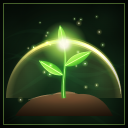
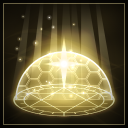
[Claude] feat(ui): 泥沼術與大地守護圖示重畫
- 泥沼術：改為雜訊擾動的不規則毒泥潭，散落大小不一的毒液窪、氣泡、毒氣與濺出的泥點，不再用同心圓漩渦
- 大地守護：改為黃白聖光風格——天降光束、六角光盾罩、地面符文陣與中央聖光十字星

diff --git a/tools/skill-icons/skill-icon-painter.js b/tools/skill-icons/skill-icon-painter.js
@@ -418,6 +418,7 @@
     earth: { base: '#090604', tint: '#3a220e', cloud: '#55331a', key: '#e3a457' },
     swamp: { base: '#050604', tint: '#26250c', cloud: '#2f3a10', key: '#9be04a' },
     life: { base: '#040805', tint: '#16331a', cloud: '#21502a', key: '#b8f26a' },
+    holy: { base: '#0b0906', tint: '#3a3016', cloud: '#5a4a20', key: '#fff2b0' },
     bolt: { base: '#07050f', tint: '#241848', cloud: '#352266', key: '#ffd84a' },
     orb: { base: '#05040f', tint: '#1a1a4e', cloud: '#2a2672', key: '#b4b8ff' },
     boltBlue: { base: '#02050e', tint: '#0b1e4c', cloud: '#132c6e', key: '#6ab8ff' },
@@ -966,98 +967,164 @@
     motes(c, R, 12, [20, 20, 236, 236], ['#ffcf6a'], 1, 2);
   };
 
-  /* 泥沼術：俯視的泥漿漩渦，毒光與氣泡 */
+  /* 泥沼術：不規則的毒泥潭（雜訊擾動的輪廓、散落的毒液窪、氣泡與毒氣），刻意不用同心圓 */
   PAINTERS.mire = function (c, R) {
-    background(c, R, Object.assign({ cy: 140 }, PAL.swamp));
-    c.save(); c.translate(128, 140); c.scale(1, 0.62); c.translate(-128, -140);
-    /* 泥沼盆 */
-    var pg = c.createRadialGradient(128, 140, 4, 128, 140, 118);
-    pg.addColorStop(0, '#0a0803'); pg.addColorStop(0.55, '#3a2a12'); pg.addColorStop(0.85, '#5a4418'); pg.addColorStop(1, 'rgba(60,40,10,0)');
-    c.fillStyle = pg; c.beginPath(); c.arc(128, 140, 118, 0, TAU); c.fill();
-    /* 漩渦臂 */
-    for (var k = 0; k < 5; k++) {
-      var sp = spiralPts(128, 140, 108, 8, k * TAU / 5, 1.1, 50);
-      ribbon(c, sp, function (t) { return 16 * Math.sin(Math.PI * t) * (1 - t * 0.5); }, rgba('#7a5a26', 0.6));
-      add(c);
-      ribbon(c, sp, function (t) { return 4 * Math.sin(Math.PI * t); }, rgba('#9be04a', 0.45));
-      normal(c);
-    }
-    /* 毒光環 */
+    background(c, R, Object.assign({ cy: 150 }, PAL.swamp));
+    /* 不規則輪廓：半徑疊幾個不同頻率的正弦，再壓成斜視 */
+    var blob = function (cx, cy, r, sq, seedPh, amp) {
+      var pts = [], ph = [seedPh, seedPh * 1.7 + 1, seedPh * 2.3 + 2];
+      for (var i = 0; i < 72; i++) {
+        var a = i / 72 * TAU;
+        var k = 1 + amp * (0.55 * Math.sin(a * 3 + ph[0]) + 0.3 * Math.sin(a * 5 + ph[1]) + 0.18 * Math.sin(a * 9 + ph[2]));
+        pts.push([cx + Math.cos(a) * r * k, cy + Math.sin(a) * r * k * sq]);
+      }
+      return pts;
+    };
+    var path = function (pts) {
+      c.beginPath();
+      pts.forEach(function (p, i) { if (i) c.lineTo(p[0], p[1]); else c.moveTo(p[0], p[1]); });
+      c.closePath();
+    };
+    /* 泥潭外緣的毒光 */
+    var outer = blob(128, 156, 112, 0.6, range(R, 0, TAU), 0.22);
+    c.save(); add(c); path(outer); c.shadowBlur = 24; c.shadowColor = '#7ad02a'; c.fillStyle = 'rgba(90,150,30,0.35)'; c.fill(); c.restore();
+    /* 泥潭本體 */
+    path(outer);
+    var mg = c.createLinearGradient(0, 90, 0, 230);
+    mg.addColorStop(0, '#4a3a16'); mg.addColorStop(0.5, '#2c220c'); mg.addColorStop(1, '#140f05');
+    c.fillStyle = mg; c.fill();
+    c.save(); path(outer); c.clip();
+    /* 泥面的流紋（不規則彎曲，不繞中心） */
     add(c);
-    c.lineWidth = 4; c.strokeStyle = rgba('#9be04a', 0.5); c.shadowBlur = 16; c.shadowColor = '#7ad02a';
-    c.beginPath(); c.arc(128, 140, 104, 0, TAU); c.stroke();
-    c.shadowBlur = 0;
+    for (var i = 0; i < 7; i++) {
+      var x0 = range(R, 30, 120), y0 = range(R, 110, 210);
+      var p = bezPts([x0, y0], [x0 + range(R, 20, 60), y0 + range(R, -30, 30)], [x0 + range(R, 60, 110), y0 + range(R, -30, 30)], [x0 + range(R, 100, 150), y0 + range(R, -20, 20)], 24);
+      ribbon(c, p, function (t) { return range(R, 3, 6) * Math.sin(Math.PI * t); }, rgba('#8a6a30', 0.35));
+    }
     normal(c);
+    /* 散落的毒液窪：大小、位置、形狀都不同 */
+    var pools = [[100, 150, 30], [162, 170, 22], [142, 128, 14], [72, 182, 12], [190, 140, 10]];
+    pools.forEach(function (q) {
+      var pp = blob(q[0], q[1], q[2], 0.55, range(R, 0, TAU), 0.3);
+      c.save(); add(c); path(pp); c.shadowBlur = 8; c.shadowColor = '#9be04a';
+      var pg = c.createRadialGradient(q[0] - q[2] * 0.3, q[1] - q[2] * 0.2, 0, q[0], q[1], q[2] * 1.2);
+      pg.addColorStop(0, 'rgba(210,255,130,0.85)'); pg.addColorStop(0.4, 'rgba(110,200,40,0.6)'); pg.addColorStop(1, 'rgba(50,110,15,0.35)');
+      c.fillStyle = pg; c.fill(); c.restore();
+    });
     c.restore();
-    /* 中心吸力 */
-    add(c); glowDot(c, 128, 140, 34, '#4caf2b', 0.7); normal(c);
-    c.fillStyle = 'rgba(0,0,0,0.8)'; c.beginPath(); c.ellipse(128, 140, 13, 8, 0, 0, TAU); c.fill();
-    /* 氣泡 */
-    for (var i = 0; i < 9; i++) {
-      var x = range(R, 54, 202), y = range(R, 40, 190), r = range(R, 4, 11);
-      c.save();
+    /* 泥潭邊緣：不描整圈硬邊，只在上緣（朝光的那側）留一道濕亮的泥唇 */
+    var lip = outer.filter(function (p) { return p[1] < 156; });
+    lip.sort(function (a, b) { return a[0] - b[0]; });
+    add(c);
+    strokePts(c, lip, 1.6, 'rgba(200,170,110,0.45)', 6, 'rgba(160,220,80,0.6)');
+    normal(c);
+    /* 濺到泥潭外的泥點 */
+    for (var sp = 0; sp < 10; sp++) {
+      var oa = range(R, 0, TAU), od = range(R, 1.05, 1.25), op = outer[Math.floor(oa / TAU * outer.length)];
+      var sx = 128 + (op[0] - 128) * od, sy = 156 + (op[1] - 156) * od, sr = range(R, 2, 5);
+      c.fillStyle = '#3a2c10'; c.beginPath(); c.ellipse(sx, sy, sr * 1.4, sr * 0.8, 0, 0, TAU); c.fill();
+      c.fillStyle = 'rgba(200,170,110,0.5)'; c.beginPath(); c.arc(sx - sr * 0.4, sy - sr * 0.3, sr * 0.35, 0, TAU); c.fill();
+    }
+    /* 氣泡（有的完整、有的破開成小圈） */
+    for (var b = 0; b < 8; b++) {
+      var x = range(R, 60, 196), y = range(R, 118, 196), r = range(R, 4, 12);
       add(c); glowDot(c, x, y, r * 2.4, '#7ad02a', 0.35); normal(c);
+      if (b % 3 === 2) {
+        c.save(); add(c); c.strokeStyle = 'rgba(200,255,140,0.75)'; c.lineWidth = 1.5;
+        c.beginPath(); c.ellipse(x, y, r * 1.3, r * 0.5, 0, 0, TAU); c.stroke(); c.restore();
+        continue;
+      }
       var bg = c.createRadialGradient(x - r * 0.4, y - r * 0.4, 0, x, y, r);
-      bg.addColorStop(0, 'rgba(230,255,200,0.9)'); bg.addColorStop(0.5, 'rgba(120,200,60,0.5)'); bg.addColorStop(1, 'rgba(60,120,20,0.85)');
-      c.fillStyle = bg; c.beginPath(); c.arc(x, y, r, 0, TAU); c.fill();
-      c.strokeStyle = 'rgba(200,255,150,0.8)'; c.lineWidth = 1; c.stroke();
-      c.restore();
+      bg.addColorStop(0, 'rgba(235,255,210,0.95)'); bg.addColorStop(0.5, 'rgba(120,200,60,0.55)'); bg.addColorStop(1, 'rgba(50,110,15,0.9)');
+      c.fillStyle = bg; c.beginPath(); c.arc(x, y - r * 0.4, r, 0, TAU); c.fill();
     }
     /* 往上飄的毒氣 */
     add(c);
-    for (var j = 0; j < 4; j++) {
-      var x0 = range(R, 70, 186);
-      var wisp = bezPts([x0, 150], [x0 - 20, 110], [x0 + 24, 70], [x0 + range(R, -10, 10), 26], 24);
-      ribbon(c, wisp, function (t) { return 10 * Math.sin(Math.PI * t); }, rgba('#9be04a', 0.18));
+    for (var j = 0; j < 5; j++) {
+      var wx = range(R, 60, 196);
+      var wisp = bezPts([wx, 150], [wx - range(R, 10, 30), 110], [wx + range(R, 10, 30), 70], [wx + range(R, -14, 14), 22], 26);
+      ribbon(c, wisp, function (t) { return 12 * Math.sin(Math.PI * t); }, rgba('#9be04a', 0.16));
+      ribbon(c, wisp, function (t) { return 3 * Math.sin(Math.PI * t); }, rgba('#d8ff9a', 0.25));
     }
     normal(c);
+    motes(c, R, 14, [30, 20, 226, 200], ['#b8f26a', '#9be04a'], 1, 2.2);
   };
 
-  /* 大地守護：岩丘上的生命幼苗，金色護罩圈住 */
+  /* 大地守護：黃白聖光——天降光束、六角光盾罩、地面符文陣、中央聖光十字星 */
   PAINTERS.earthguard = function (c, R) {
-    background(c, R, Object.assign({ cy: 150 }, PAL.life));
-    /* 護罩 */
+    background(c, R, Object.assign({ cx: 128, cy: 120 }, PAL.holy));
+    var cx = 128, gy = 200;
+    /* 天降光束 */
     add(c);
-    var dome = c.createRadialGradient(128, 196, 40, 128, 196, 116);
-    dome.addColorStop(0, 'rgba(255,230,140,0)'); dome.addColorStop(0.8, 'rgba(255,220,120,0.12)'); dome.addColorStop(1, 'rgba(255,220,120,0.4)');
-    c.fillStyle = dome; c.beginPath(); c.arc(128, 196, 116, Math.PI, TAU); c.closePath(); c.fill();
+    for (var i = 0; i < 7; i++) {
+      var x = 128 + (i - 3) * 22 + range(R, -6, 6), w = range(R, 10, 26);
+      var g = c.createLinearGradient(0, 0, 0, gy);
+      g.addColorStop(0, 'rgba(255,248,210,0.0)'); g.addColorStop(0.35, 'rgba(255,244,190,' + range(R, 0.12, 0.25) + ')'); g.addColorStop(1, 'rgba(255,236,160,0.02)');
+      c.fillStyle = g;
+      c.beginPath(); c.moveTo(x - w * 0.3, 0); c.lineTo(x + w * 0.3, 0); c.lineTo(x + w + (x - 128) * 0.4, gy); c.lineTo(x - w + (x - 128) * 0.4, gy); c.closePath(); c.fill();
+    }
     normal(c);
-    swoosh(c, arcPts(128, 196, 114, Math.PI * 1.02, Math.PI * 1.98, 60), 8, '#ffd86a', { edge: false });
-    /* 岩丘 */
-    c.beginPath();
-    c.moveTo(30, 232); c.quadraticCurveTo(60, 186, 104, 190); c.quadraticCurveTo(128, 176, 156, 188);
-    c.quadraticCurveTo(204, 184, 226, 232); c.closePath();
-    var rg = c.createLinearGradient(0, 176, 0, 232);
-    rg.addColorStop(0, '#8a6a44'); rg.addColorStop(1, '#2a1a0c');
-    c.fillStyle = rg; c.fill();
-    c.strokeStyle = 'rgba(255,220,160,0.35)'; c.lineWidth = 1.5;
-    c.beginPath(); c.moveTo(56, 200); c.quadraticCurveTo(104, 184, 150, 186); c.stroke();
-    /* 莖 */
-    var stem = bezPts([128, 196], [122, 160], [136, 130], [128, 92], 24);
-    ribbon(c, stem, function (t) { return lerp(9, 4, t); }, '#3f8a2a');
-    add(c); strokePts(c, stem, 1.5, 'rgba(220,255,160,0.6)'); normal(c);
-    /* 葉片 */
-    var leaf = function (x, y, ang, len, wid) {
-      c.save(); c.translate(x, y); c.rotate(ang);
-      c.beginPath(); c.moveTo(0, 0);
-      c.quadraticCurveTo(len * 0.4, -wid, len, 0); c.quadraticCurveTo(len * 0.4, wid, 0, 0); c.closePath();
-      var lg = c.createLinearGradient(0, -wid, 0, wid);
-      lg.addColorStop(0, '#d8ff8a'); lg.addColorStop(0.5, '#6ccf3a'); lg.addColorStop(1, '#1f6a1a');
-      c.fillStyle = lg; c.fill();
-      add(c);
-      c.strokeStyle = 'rgba(240,255,200,0.75)'; c.lineWidth = 1.2;
-      c.beginPath(); c.moveTo(2, 0); c.lineTo(len * 0.92, 0); c.stroke();
-      c.shadowBlur = 12; c.shadowColor = '#b8f26a'; c.strokeStyle = 'rgba(200,255,140,0.4)';
-      c.beginPath(); c.moveTo(0, 0); c.quadraticCurveTo(len * 0.4, -wid, len, 0); c.stroke();
-      normal(c);
-      c.restore();
-    };
-    leaf(126, 150, -2.6, 56, 18);
-    leaf(130, 132, -0.5, 60, 19);
-    leaf(128, 94, -1.75, 44, 15);
-    coreGlow(c, 128, 88, 46, '#b8f26a', '#fffbe0');
-    /* 上升的光粒 */
-    motes(c, R, 22, [40, 30, 216, 200], ['#ffe27a', '#b8f26a'], 1, 2.4);
+    /* 地面符文陣（斜視橢圓＋刻度） */
+    c.save(); c.translate(cx, gy); c.scale(1, 0.32);
+    add(c);
+    glowDot(c, 0, 0, 118, '#ffe48a', 0.5);
+    c.strokeStyle = 'rgba(255,240,180,0.85)'; c.lineWidth = 3; c.shadowBlur = 12; c.shadowColor = '#ffd86a';
+    c.beginPath(); c.arc(0, 0, 100, 0, TAU); c.stroke();
+    c.lineWidth = 2; c.beginPath(); c.arc(0, 0, 80, 0, TAU); c.stroke();
+    for (var k = 0; k < 24; k++) {
+      var a = k / 24 * TAU;
+      c.beginPath(); c.moveTo(Math.cos(a) * 82, Math.sin(a) * 82); c.lineTo(Math.cos(a) * (k % 2 ? 90 : 98), Math.sin(a) * (k % 2 ? 90 : 98)); c.stroke();
+    }
+    /* 陣中的六芒線 */
+    c.lineWidth = 1.6;
+    [0, Math.PI].forEach(function (off) {
+      c.beginPath();
+      for (var t = 0; t < 3; t++) { var a2 = off + t * TAU / 3 - Math.PI / 2; c[t ? 'lineTo' : 'moveTo'](Math.cos(a2) * 78, Math.sin(a2) * 78); }
+      c.closePath(); c.stroke();
+    });
+    c.restore();
+    normal(c);
+    /* 六角光盾罩：半球上排六角格，越上越透 */
+    var domeR = 96, domeCy = gy;
+    c.save();
+    c.beginPath(); c.arc(cx, domeCy, domeR, Math.PI, TAU); c.closePath(); c.clip();
+    add(c);
+    var dg = c.createRadialGradient(cx, domeCy, 30, cx, domeCy, domeR);
+    dg.addColorStop(0, 'rgba(255,250,220,0.05)'); dg.addColorStop(0.8, 'rgba(255,240,180,0.12)'); dg.addColorStop(1, 'rgba(255,240,180,0.4)');
+    c.fillStyle = dg; c.fillRect(0, 0, S, S);
+    var hs = 16, hh = hs * Math.sqrt(3);
+    c.lineWidth = 1.2;
+    for (var row = -1; row < 9; row++) {
+      for (var col = -1; col < 12; col++) {
+        var hx = 20 + col * hs * 1.5, hy = domeCy - row * hh - (col % 2 ? hh / 2 : 0);
+        var d = Math.hypot(hx - cx, hy - domeCy) / domeR;
+        if (d > 1.05) continue;
+        c.strokeStyle = 'rgba(255,244,200,' + (0.12 + 0.45 * d * d) + ')';
+        c.beginPath();
+        for (var v = 0; v < 6; v++) { var va = v / 6 * TAU; c[v ? 'lineTo' : 'moveTo'](hx + Math.cos(va) * hs * 0.92, hy + Math.sin(va) * hs * 0.92); }
+        c.closePath(); c.stroke();
+      }
+    }
+    normal(c);
+    c.restore();
+    c.save(); add(c);
+    c.strokeStyle = 'rgba(255,248,215,0.9)'; c.lineWidth = 2.6; c.shadowBlur = 16; c.shadowColor = '#ffe07a';
+    c.beginPath(); c.arc(cx, domeCy, domeR, Math.PI, TAU); c.stroke();
+    c.restore();
+    /* 中央聖光十字星 */
+    var sy = 128;
+    add(c);
+    glowDot(c, cx, sy, 80, '#ffe48a', 0.55);
+    [[0, 62, 7], [Math.PI / 2, 46, 6], [Math.PI / 4, 26, 3], [-Math.PI / 4, 26, 3]].forEach(function (ray) {
+      [1, -1].forEach(function (sgn) {
+        var a = ray[0] + (sgn < 0 ? Math.PI : 0);
+        var p = linePts(cx, sy, cx + Math.sin(a) * ray[1], sy - Math.cos(a) * ray[1], 8);
+        ribbon(c, p, function (t) { return ray[2] * 2 * (1 - t); }, alongGrad(c, p, [[0, 'rgba(255,255,255,1)'], [1, 'rgba(255,236,160,0)']]));
+      });
+    });
+    normal(c);
+    coreGlow(c, cx, sy, 30, '#ffe48a', '#ffffff');
+    motes(c, R, 24, [30, 30, 226, 220], ['#fff2b0', '#ffe48a', '#ffffff'], 1, 2.4);
   };
 
   /* 連鎖閃電：藍色雷光在光點之間跳躍（使用者指定藍色系，與落雷、雷球的金色區隔） */
@@ -1368,7 +1435,7 @@
     thrust: PAL.steel.key, cleave: PAL.gold.key, knife: PAL.steel.key, gale: PAL.bolt.key,
     bloodblade: PAL.blood.key, dualdance: PAL.blood.key, counter: PAL.gold.key, bloodrage: PAL.blood.key,
     fireball: PAL.fire.key, firepillar: PAL.fire.key, firehunt: PAL.fire.key,
-    rockarmor: PAL.earth.key, mire: PAL.swamp.key, earthguard: PAL.life.key,
+    rockarmor: PAL.earth.key, mire: PAL.swamp.key, earthguard: PAL.holy.key,
     chainlightning: PAL.boltBlue.key, thunderstrike: PAL.bolt.key, thunderorb: PAL.orb.key,
     icearrow: PAL.ice.key, waterball: PAL.water.key, frostnova: PAL.ice.key,
     windblade: PAL.wind.key, vacuumslash: PAL.vacuum.key, stormbarrier: PAL.wind.key
